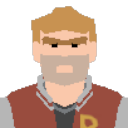
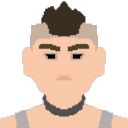
Update Person Sprites

diff --git a/Assets/Plugins/ScreenshotTaker/DriversScreenshotTaker.cs b/Assets/Plugins/ScreenshotTaker/DriversScreenshotTaker.cs
@@ -17,13 +17,13 @@ public class DriversScreenshotTaker : MonoBehaviour {
 			for (int i = 0; i < characters.Length; i++) {
 				for (int j = 0; j < characters[i].transform.childCount - 1; j++) {
 					Transform child = characters[i].transform.GetChild(j);
-					// child.gameObject.SetActive(true);
-					//
-					// string path = $"{Application.dataPath.Replace("Assets", string.Empty)}{UnityEditor.AssetDatabase.GetAssetPath(objFolder)}/Person{driverIndex}.png";
-					// File.WriteAllBytes(path, TakeScreenshot());
-					//
-					// driverIndex++;
-					// child.gameObject.SetActive(false);
+					child.gameObject.SetActive(true);
+					
+					string path = $"{Application.dataPath.Replace("Assets", string.Empty)}{UnityEditor.AssetDatabase.GetAssetPath(objFolder)}/Person{driverIndex}.png";
+					File.WriteAllBytes(path, TakeScreenshot());
+					
+					driverIndex++;
+					child.gameObject.SetActive(false);
 
 					s += child.name.Replace("Character_", string.Empty) + "\n";
 				}
